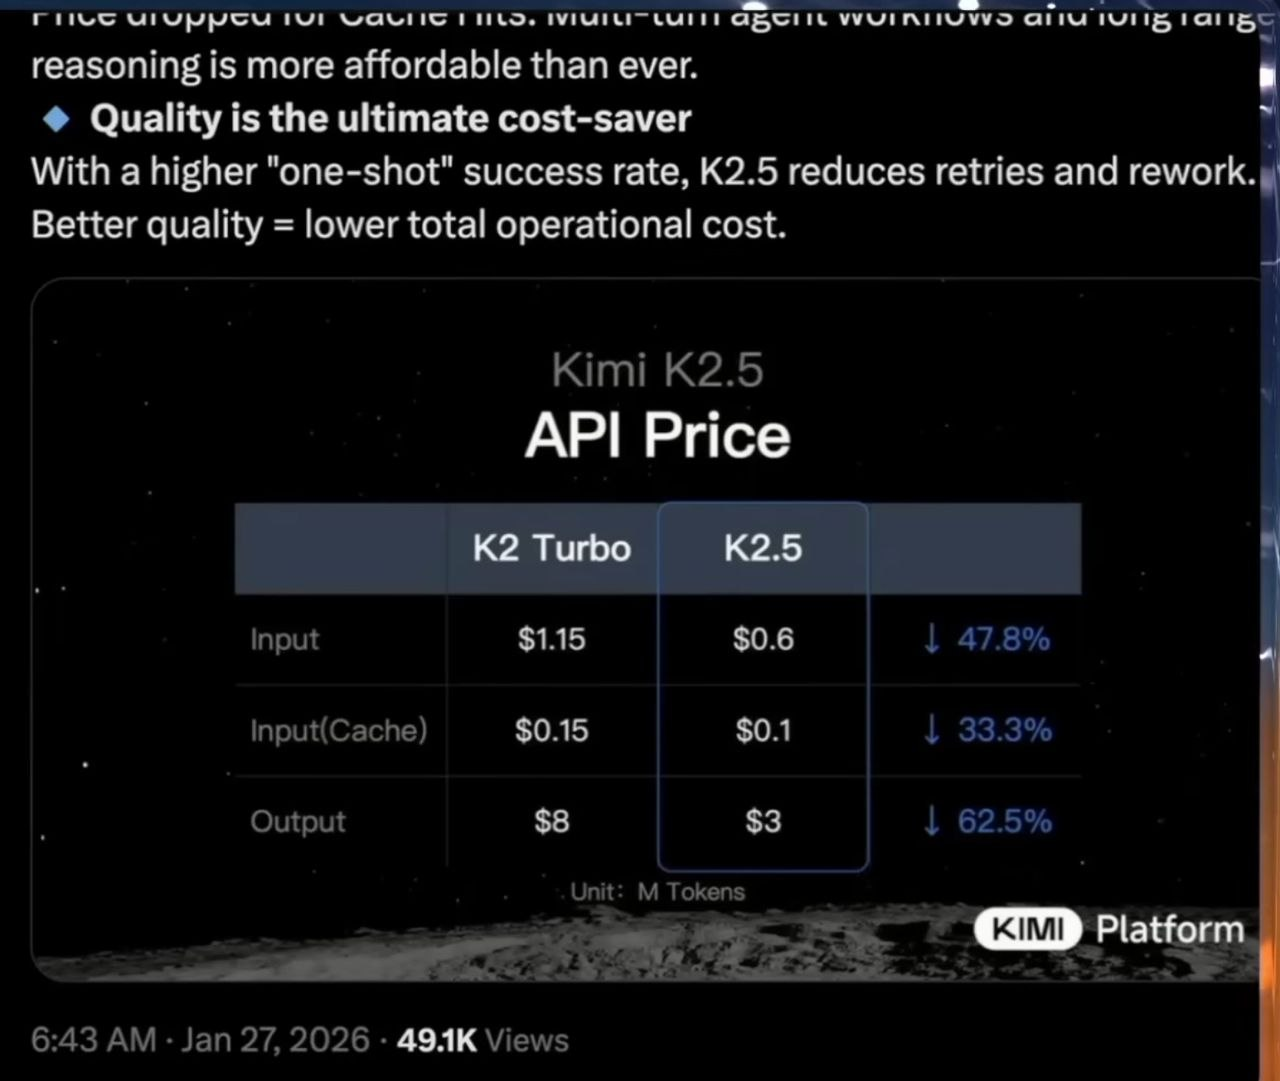
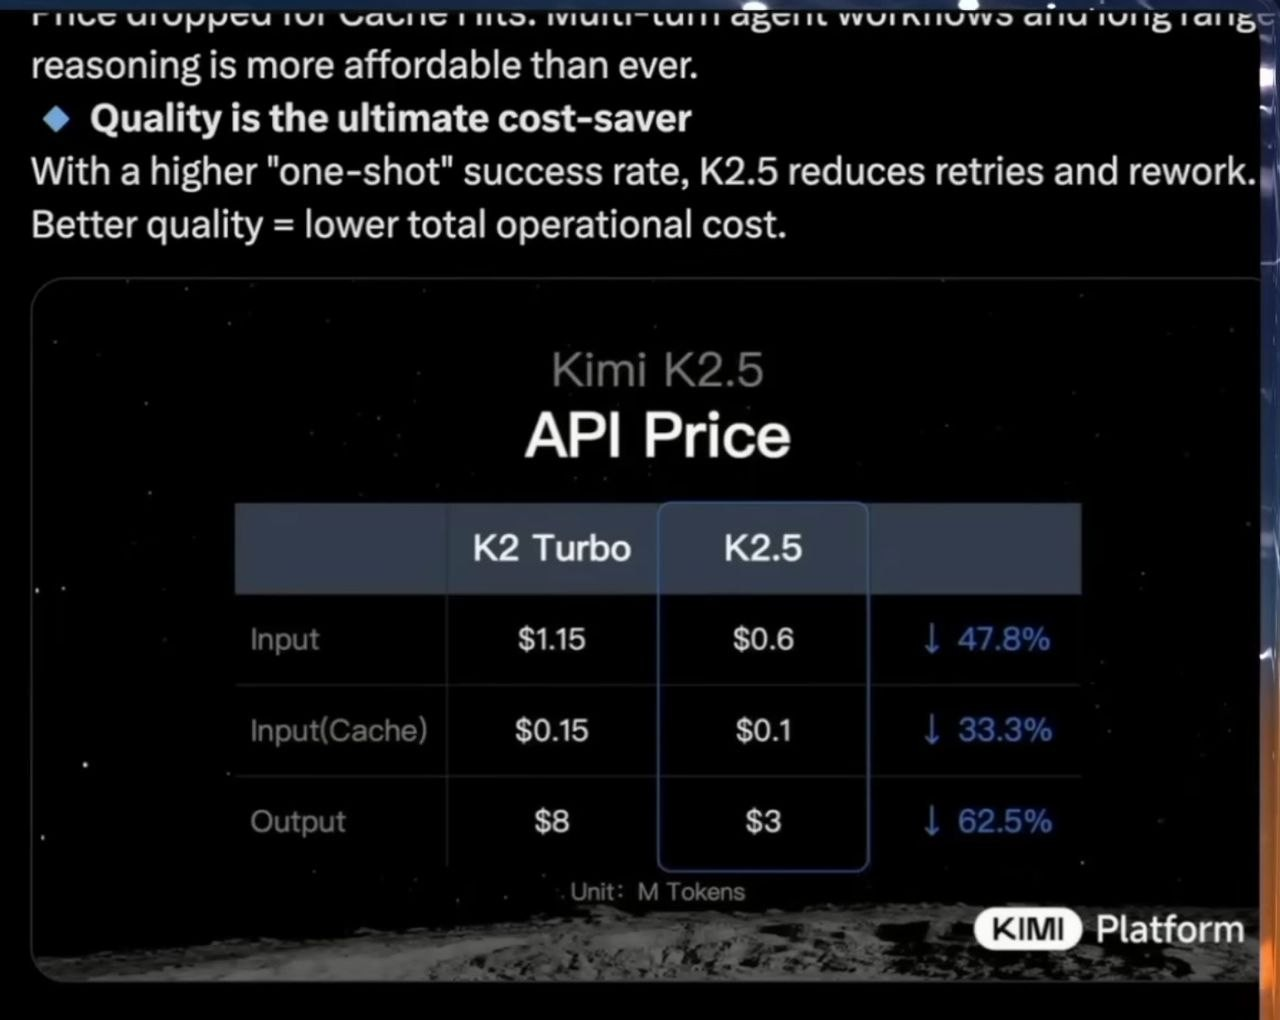
Crop screenshots: remove phone chrome, fix Kimi duplicate
- Cropped Gemini screenshots: removed status bar, app header, bottom controls
- Cropped MoltMatch: removed status bar, kept engagement metrics
- Cropped Kimi API pricing: trimmed X chrome
- Removed duplicate kimi-k25-benchmark-comparison-stream.jpg (same data as scores)
- Updated article to use single Kimi benchmark image
- Updated SOURCES.md

diff --git a/src/articles/2026.02.18.md b/src/articles/2026.02.18.md
@@ -59,11 +59,9 @@ If the trend holds, the doubling time for the 50% threshold appears to be on the
 
 ## Kimi K2.5: China's New Benchmark King
 
-![Kimi K2.5 benchmark comparison — 2.3M views](/weekly-screenshots/2026.02.18/kimi-k25-benchmark-comparison-stream.jpg)
+Moonshot AI's **Kimi K2.5** arrived with receipts. The model's benchmark reveal pulled **2.3 million views** and **9,100 likes** on X — numbers that suggest the AI community is paying serious attention to what's coming out of China.
 
-Moonshot AI's **Kimi K2.5** arrived with receipts. The model's benchmark reveal livestream pulled **2.3 million views** and **9,100 likes** on X — numbers that suggest the AI community is paying serious attention to what's coming out of China.
-
-![Kimi K2.5 detailed benchmark scores](/weekly-screenshots/2026.02.18/kimi-k25-benchmark-scores.jpg)
+![Kimi K2.5 benchmark scores](/weekly-screenshots/2026.02.18/kimi-k25-benchmark-scores.jpg)
 
 The scoreboard tells the story. Kimi K2.5 claims the top spot on three major agent and reasoning benchmarks:
 

diff --git a/public/weekly-screenshots/2026.02.18/SOURCES.md b/public/weekly-screenshots/2026.02.18/SOURCES.md
@@ -7,8 +7,7 @@
 4. `gemini-2d-to-3d-ai-render.jpg` — Gemini AI conversation
 5. `metr-llm-task-duration-80-percent.jpg` — METR benchmark chart
 6. `metr-llm-task-duration-50-percent.jpg` — METR benchmark chart
-7. `kimi-k25-benchmark-comparison-stream.jpg` — Kimi/Moonshot AI X post
-8. `kimi-k25-benchmark-scores.jpg` — Kimi K2.5 benchmark details
+7. `kimi-k25-benchmark-scores.jpg` — Kimi K2.5 benchmark details
 9. `kimi-k25-api-pricing.jpg` — Kimi K2.5 API pricing
 
 ## Web Captures (complementary - from Kaia's research topics)
